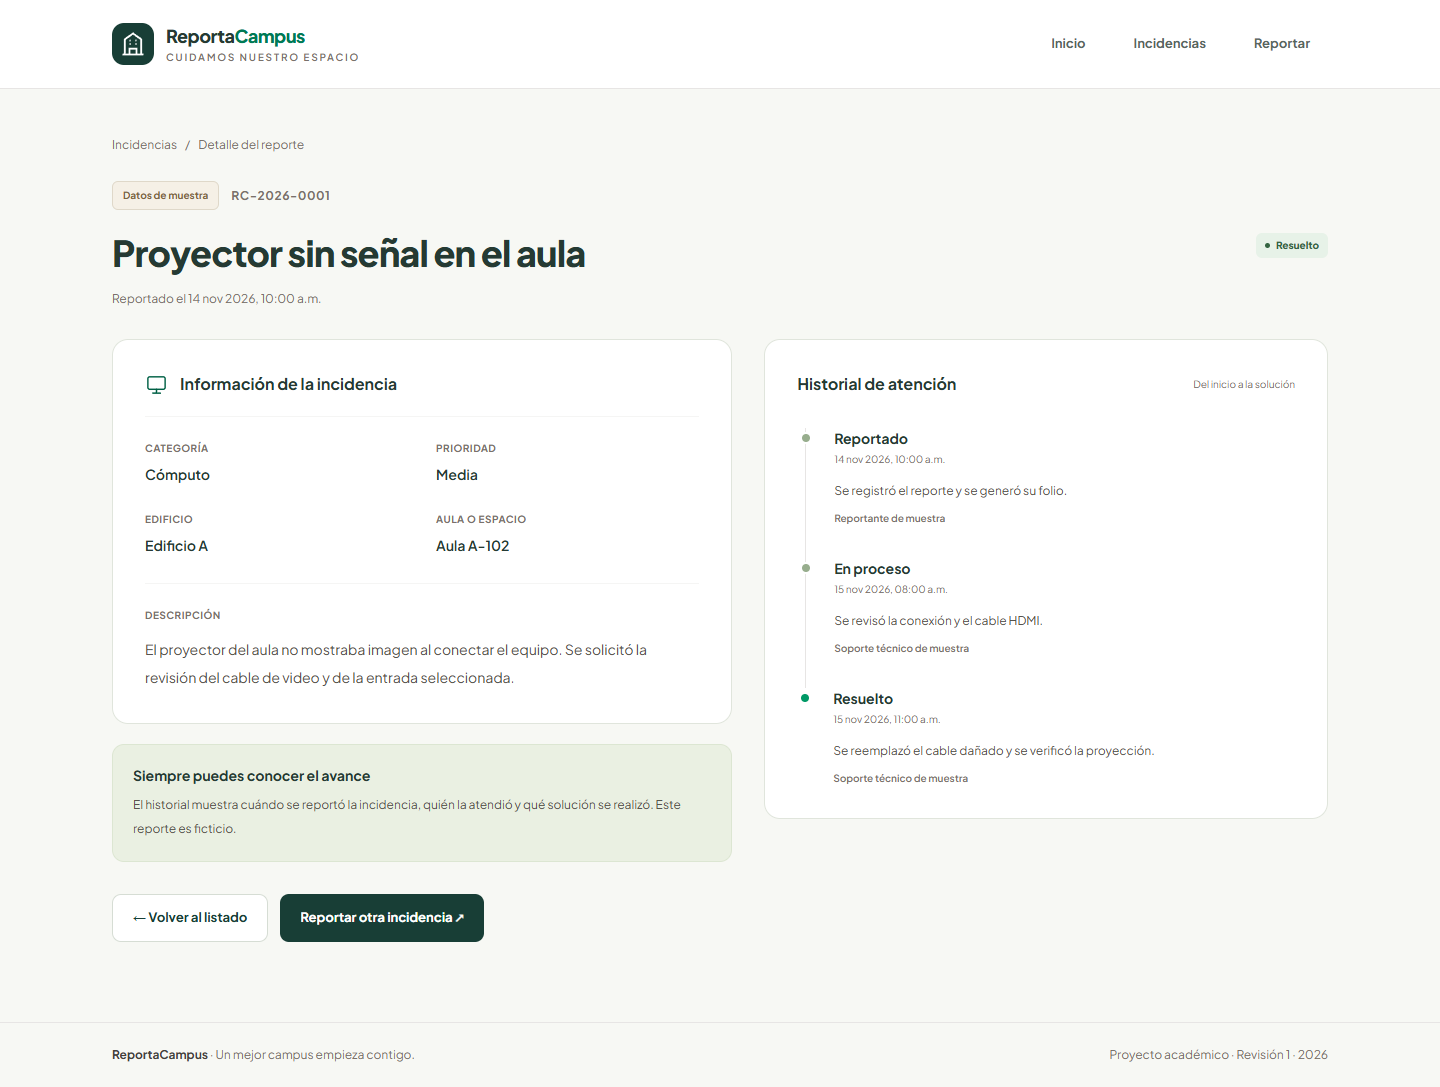
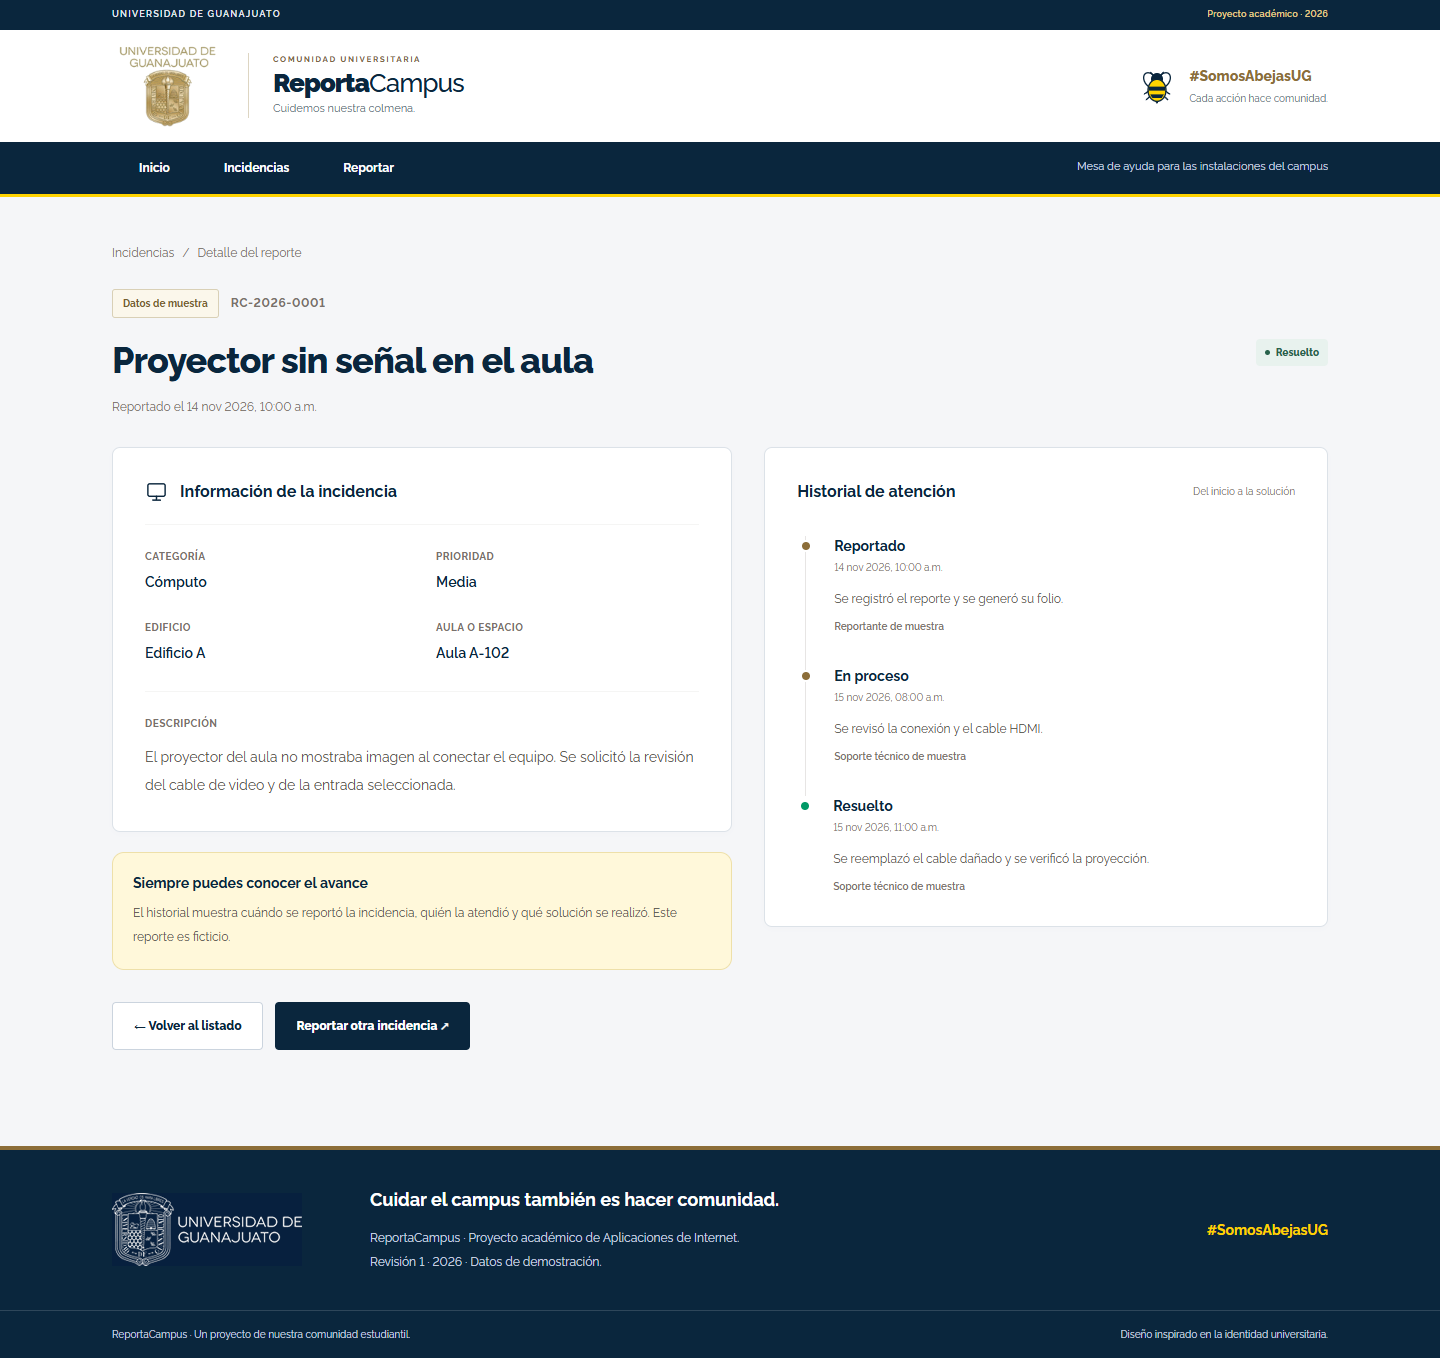
docs: actualizar bocetos capturas y fuentes del diseño UG

diff --git a/docs/referencias-diseno-ug.md b/docs/referencias-diseno-ug.md
@@ -1,0 +1,45 @@
+# Investigación visual: Universidad de Guanajuato
+
+Consulta: 18 de noviembre de 2026. Rediseño solicitado por Juan Manuel Razo Gayosso.
+
+## Fuentes oficiales
+
+1. [Portal de la Universidad de Guanajuato](https://www.ugto.mx/): estructura de
+   encabezado, escudo, navegación institucional y comunidad universitaria.
+2. [Guía institucional de imagen, actualización 2023](https://www.ugto.mx/images/guia-imagen/GuiaImagenInstitucionaUG-2023.pdf):
+   páginas impresas 6–8, 9–12 y 15. Raleway aparece como tipografía complementaria;
+   la paleta incluye `#0A263D`, `#FFD300` y `#8C6E39`.
+3. [Créditos Abeja](https://www.ugto.mx/creditosabeja): referencia visual y temática
+   para abejas, colmena y sentido de comunidad.
+4. [Heráldica UG](https://ugto.mx/conoce-la-ug/heraldica): la abeja, el panal y la
+   colmena se vinculan con el trabajo conjunto.
+5. [CSS del portal](https://ugto.mx/templates/masterbootstrap/css/template.min.css):
+   referencia consultada para la presencia de Raleway, azules oscuros y amarillos.
+
+Se consultaron el contenido del portal y sus recursos públicos y se revisó
+visualmente la guía. El navegador automatizado recibió una página de bloqueo
+del portal; esa vista no se tomó como referencia de diseño ni se presenta como
+una captura de su interfaz.
+
+## Decisiones aplicadas al proyecto
+
+- Encabezado blanco con escudo original y un bloque separado para ReportaCampus;
+  franja superior informativa y navegación azul con selección amarilla.
+- Azul para estructura y textos; amarillo para la acción principal de la portada;
+  dorado para separadores y detalles. Fondos neutros en los formularios y listados.
+- Raleway desde Google Fonts para conservar una tipografía disponible por CDN.
+- Portada nueva con panal, abeja y arquitectura/escalinata vectorial.
+- Mensajes de colaboración: «Nuestra colmena, un campus mejor» y «Entre abejas,
+  nos cuidamos». Son textos del proyecto.
+- Tarjetas, campos y botones con bordes más rectos y una jerarquía universitaria
+  común en inicio, formulario, lista y detalle.
+
+La abeja y la arquitectura son dibujos originales para ReportaCampus; no se
+presentan como mascota o emblema oficial. Los escudos institucionales se
+conservan sin modificar. La interfaz se identifica como proyecto académico.
+
+## Verificación
+
+Se regeneraron las 13 capturas, el boceto y los resultados de las pruebas.
+La revisión se hizo a 320, 390, 768 y 1440 píxeles de ancho. Los enlaces,
+filtros, validación, modo de muestra y acceso a los detalles mantienen su comportamiento.

diff --git a/docs/frontend-revision-1.md b/docs/frontend-revision-1.md
@@ -16,7 +16,8 @@
 | `public/incidencias.html` | Tarjetas, búsqueda por título/folio y filtros combinados por estado, prioridad, categoría y edificio |
 | `public/detalle.html` | Información completa, estado, historial cronológico y regreso al listado |
 
-Todas las pantallas usan Tailwind por CDN, Google Fonts (Plus Jakarta Sans),
+Todas las pantallas usan la paleta azul, amarillo y dorado inspirada en la UG,
+abejas y motivos de panal, Tailwind por CDN, Google Fonts (Raleway),
 HTML y módulos JavaScript, sin frameworks de aplicación. La navegación móvil
 incluye `aria-expanded`, cierre con Escape y devolución de foco al botón.
 Los títulos largos se parten sin provocar desplazamiento horizontal.
@@ -114,3 +115,16 @@ El login, los roles y el dashboard real quedan para las revisiones correspondien
 
 La revisión humana y la integración deben registrarse en GitHub; no se sustituyen
 con las pruebas automáticas ni con una autoaprobación del autor.
+
+
+## Actualización visual: Universidad de Guanajuato
+
+Se rediseñaron las cuatro páginas a petición de Juan Manuel: encabezado
+institucional, navegación azul con acento amarillo, escudos originales UG,
+tipografía Raleway y motivos de colmena. La portada incorpora una abeja y una
+ilustración vectorial de arquitectura y escalinata creadas para este proyecto.
+
+Las capturas y los bocetos fueron regenerados para representar este diseño.
+La funcionalidad, los IDs del formulario y la transacción del compañero se conservan.
+Consultar [investigación visual y fuentes](referencias-diseno-ug.md) y
+[procedencia de los recursos](../public/assets/README.md).

diff --git a/README.md b/README.md
@@ -160,7 +160,7 @@ Después se abre un Pull Request hacia `develop`, con evidencia y revisión de u
 ## Interfaz de la revisión 1 (Juan Manuel Razo Gayosso)
 
 Las pantallas `public/index.html`, `reportar.html`, `incidencias.html` y `detalle.html`
-están enlazadas y usan Tailwind por CDN, Plus Jakarta Sans y navegación móvil.
+están enlazadas y usan Tailwind por CDN, Raleway y navegación móvil.
 El listado y el detalle muestran incidencias ficticias de `public/js/demo-data.js`.
 Los filtros combinados funcionan sobre esos ejemplos; todavía no consultan Firestore.
 
@@ -199,3 +199,12 @@ Playwright es una dependencia de desarrollo para las pruebas, no un framework de
 la aplicación. La app sigue siendo HTML, utilidades Tailwind y módulos JavaScript.
 Si se usa Edge instalado en Windows, se puede definir `PLAYWRIGHT_EXECUTABLE_PATH`
 con la ruta de `msedge.exe` antes de ejecutar las pruebas, sin instalar Chromium.
+
+
+### Identidad visual de la comunidad UG
+
+La interfaz usa azul `#0A263D`, amarillo `#FFD300`, dorado `#8C6E39` y Raleway,
+con abejas, panales y una ilustración de arquitectura universitaria.
+La investigación se documenta en [referencias de diseño UG](docs/referencias-diseno-ug.md).
+La procedencia de los escudos y los gráficos propios está en
+[recursos visuales](public/assets/README.md).
